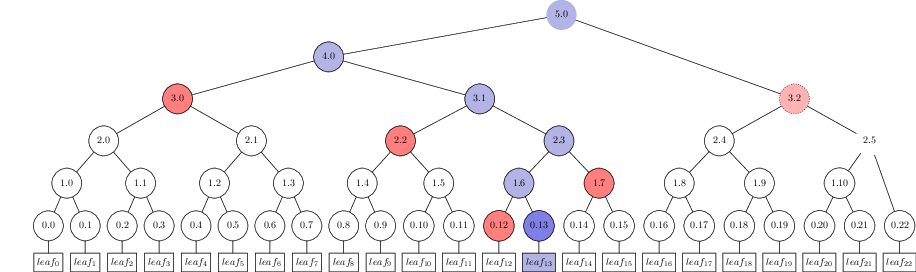
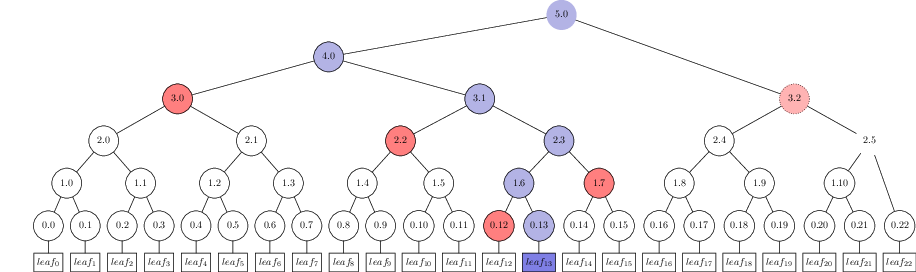
Sort out inclusion proof colouring

Changed region(s): [[0.5502, 0.7647, 0.6114, 0.8824], [0.5502, 0.9118, 0.6114, 1.0]]

diff --git a/docs/merkletree/treetex/main.go b/docs/merkletree/treetex/main.go
@@ -187,13 +187,13 @@ func drawLeaf(prefix string, index uint64, leafText, dataText nodeTextFunc) {
 
 	// First render the leaf node of the Merkle tree
 	a.rangeIndices = nil
-	a.incPath = false
 	fmt.Printf("%s [%s, %s, align=center, tier=leaf\n", prefix, leafText(id), a.String())
 
 	// and then a child-node representing the leaf data itself:
 	a = nInfo[id]
 	a.leaf = true
-	a.incProof = false // inclusion proofs don't include leafdata (just the leaf hash above)
+	a.incProof = false                     // inclusion proofs don't include leafdata (just the leaf hash above)
+	a.incPath, a.target = false, a.incPath // draw the target leaf darker if necessary.
 	fmt.Printf("  %s [%s, %s, align=center, tier=leafdata]\n]\n", prefix, dataText(id), a.String())
 }
 
@@ -308,7 +308,6 @@ func modifyRangeNodeInfo() error {
 		for _, id := range compact.RangeNodes(l, r) {
 			modifyNodeInfo(id, func(n *nodeInfo) {
 				n.incProof = true
-				// TODO(al): make the multi-range stuff work here.
 				// n.rangeIndices = append(n.rangeIndices, ri)
 			})
 		}
@@ -360,7 +359,7 @@ func main() {
 
 	if *inclusion > 0 {
 		leafID := compact.NewNodeID(0, uint64(*inclusion))
-		modifyNodeInfo(leafID, func(n *nodeInfo) { n.target = true })
+		modifyNodeInfo(leafID, func(n *nodeInfo) { n.incPath = true })
 		nf, err := merkle.CalcInclusionProofNodeAddresses(int64(*treeSize), *inclusion, int64(*treeSize))
 		if err != nil {
 			log.Fatalf("Failed to calculate inclusion proof addresses: %s", err)
